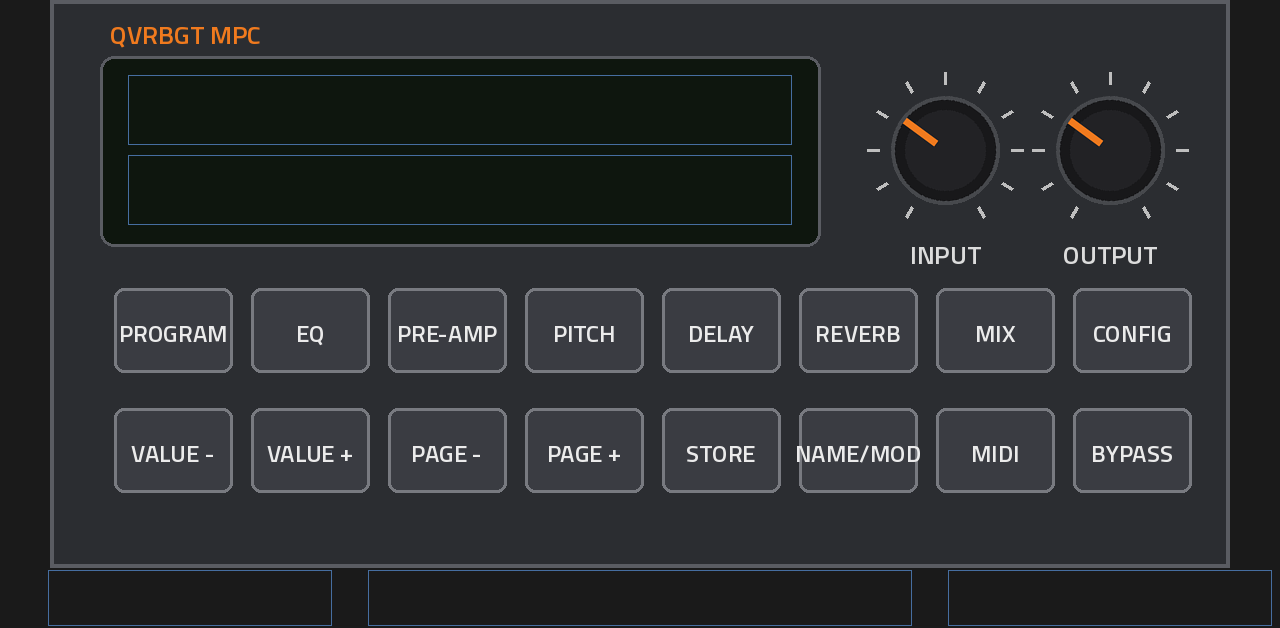
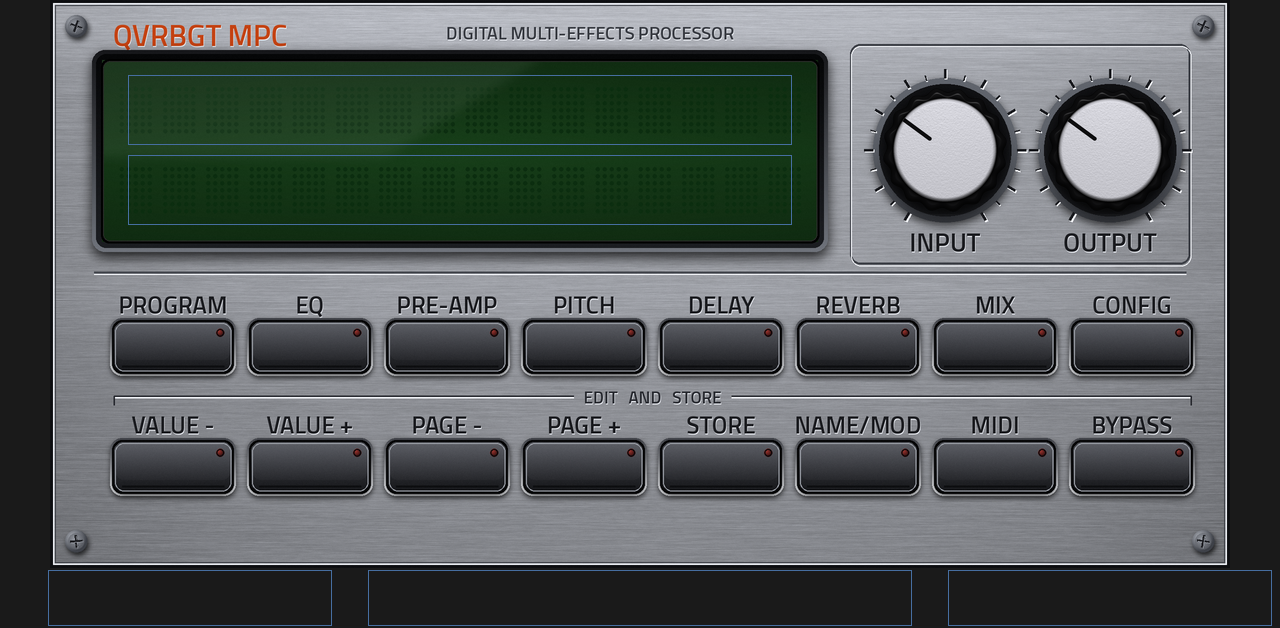
QVRBGT MPC: silver hardware-style panel, rendered top-lit knobs, live LCD text colour
New generic faceplate (brushed aluminium, recessed LCD with dot-matrix grid, black rubber keys, legends printed on the panel); no
manufacturer art or logo. Knob frames are rendered per angle with the light fixed (tools/knob_lit.py) instead of rotating panel pixels.
gen_emu passes tcolor/tfont/tweight through for readouts.

Claude-Session: https://claude.ai/code/session_01YReGWRTtnqPBKJMJPxkBnz

diff --git a/tools/make_qvgt_panel.py b/tools/make_qvgt_panel.py
@@ -1,35 +1,201 @@
 #!/usr/bin/env python3
-"""PLACEHOLDER panel for QVRBGT MPC (the user has not supplied a QuadraVerb GT panel image): plain boxes, labels and two knobs, 1180 x 568.
-Replace art/panels/qvgt.png with the real panel and re-point the x/y in QVRBGTMPC/spec.py; nothing else depends on this drawing."""
+"""Hardware-style front panel for QVRBGT MPC (1180 x 568), drawn from scratch at 2x and scaled down: anodised brushed aluminium,
+Phillips screws with shadows, bevelled recessed LCD window with a 2 x 16 dot-matrix grid under green backlight, knob wells with
+scale ticks, bevelled rubber keys with unlit LEDs, silk-screen legends. NO manufacturer logo or name. The user has not supplied a
+real QuadraVerb GT panel; replace art/panels/qvgt.png with theirs and re-point the x/y in QVRBGTMPC/spec.py.
+Control geometry is unchanged: knobs (895,150) and (1060,150); keys left x=64+137*i, y=330/450 (118 x 84 pads in 130 x 88 boxes);
+LCD inner window (52,60)-(768,242)."""
 import math, os
-from PIL import Image, ImageDraw, ImageFont
+import numpy as np
+from PIL import Image, ImageDraw, ImageFont, ImageFilter
+from scipy.ndimage import uniform_filter1d
+
 root = os.path.dirname(os.path.dirname(os.path.abspath(__file__)))
-W, H = 1180, 568
-im = Image.new("RGB", (W, H), (43, 45, 49)); d = ImageDraw.Draw(im)
-F = lambda s: ImageFont.truetype(os.path.join(root, "art/fonts/TitilliumWeb-SemiBold.ttf"), s)
-d.rectangle((0, 0, W - 1, H - 1), outline=(90, 92, 98), width=4)
-d.text((60, 14), "QVRBGT MPC", font=F(26), fill=(240, 122, 30))
-# LCD bezel (the two text lines are live readouts on top of it)
-d.rounded_rectangle((50, 56, 770, 246), 14, fill=(14, 22, 14), outline=(90, 92, 98), width=3)
-# INPUT / OUTPUT knobs: dark disc, ring of ticks, orange pointer straight up
-def knob(cx, cy, label):
-    for a in range(-150, 151, 30):
-        x0 = cx + math.sin(math.radians(a)) * 66; y0 = cy - math.cos(math.radians(a)) * 66
-        x1 = cx + math.sin(math.radians(a)) * 78; y1 = cy - math.cos(math.radians(a)) * 78
-        d.line((x0, y0, x1, y1), fill=(190, 190, 190), width=3)
-    d.ellipse((cx - 54, cy - 54, cx + 54, cy + 54), fill=(24, 24, 26), outline=(70, 72, 76), width=4)
-    d.ellipse((cx - 40, cy - 40, cx + 40, cy + 40), fill=(34, 34, 37))
-    d.line((cx, cy - 12, cx, cy - 50), fill=(240, 122, 30), width=7)
-    t = F(26); w = d.textlength(label, font=t); d.text((cx - w / 2, cy + 84), label, font=t, fill=(220, 220, 220))
-knob(895, 150, "INPUT"); knob(1060, 150, "OUTPUT")
-# the 16 keys, two rows of eight (the key boxes are the touch targets; labels are drawn here)
+W, H, S = 1180, 568, 2
+W2, H2 = W * S, H * S
+rng = np.random.default_rng(11)
+FONT = lambda s, w="SemiBold": ImageFont.truetype(os.path.join(root, "art/fonts/TitilliumWeb-SemiBold.ttf"), int(s * S))
+q = lambda v: int(round(v * S))
+Q = lambda box: tuple(q(v) for v in box)
+
+# ---- brushed anodised aluminium (long horizontal grain, soft top light, vignette) ----
+g = rng.normal(0, 1, (H2, W2)).astype(np.float32)
+g = uniform_filter1d(g, 90, axis=1); g /= g.std()
+g2 = uniform_filter1d(rng.normal(0, 1, (H2, W2)).astype(np.float32), 14, axis=1); g2 /= g2.std()
+fine = rng.normal(0, 1, (H2, W2)).astype(np.float32)
+yy = np.linspace(0, 1, H2, dtype=np.float32)[:, None]
+xx = np.linspace(0, 1, W2, dtype=np.float32)[None, :]
+base = 176 - 40 * yy + 14 * np.exp(-((yy - 0.04) / 0.06) ** 2) + 8 * np.exp(-((yy - 0.52) / 0.05) ** 2)             # lighter at the top edge
+base = base - 22 * (np.abs(xx - 0.5) * 2) ** 3                            # vignette at the sides
+lum = base + 5.0 * g + 2.4 * g2 + 1.2 * fine
+rgb = np.stack([lum * 0.975, lum * 0.99, lum * 1.03], -1)
+im = Image.fromarray(np.clip(rgb, 0, 255).astype(np.uint8), "RGB").convert("RGBA")
+
+
+def shadow(draw_fn, off=(0, 4), blur=5, alpha=150, grow=0):
+    """Composite a blurred drop shadow of whatever draw_fn paints (white) onto the panel."""
+    m = Image.new("L", im.size, 0)
+    draw_fn(ImageDraw.Draw(m), 255)
+    if grow:
+        m = m.filter(ImageFilter.MaxFilter(grow * 2 + 1))
+    m = m.filter(ImageFilter.GaussianBlur(q(blur)))
+    sh = Image.new("RGBA", im.size, (0, 0, 0, 0))
+    sh.putalpha(m.point(lambda v: int(v * alpha / 255)))
+    layer = Image.new("RGBA", im.size, (0, 0, 0, 0))
+    layer.alpha_composite(sh, (q(off[0]), q(off[1])))
+    im.alpha_composite(layer)
+
+
+def vgrad(box, r, top, bot, extra=None):
+    """Rounded rectangle filled with a vertical gradient."""
+    x0, y0, x1, y1 = Q(box)
+    w, h = x1 - x0, y1 - y0
+    t = np.linspace(0, 1, h, dtype=np.float32)[:, None, None]
+    arr = np.array(top, np.float32) * (1 - t) + np.array(bot, np.float32) * t
+    arr = np.repeat(arr, w, axis=1)
+    if extra is not None:
+        arr = arr + extra(w, h)
+    tile = Image.fromarray(np.clip(arr, 0, 255).astype(np.uint8), "RGB").convert("RGBA")
+    m = Image.new("L", (w, h), 0)
+    ImageDraw.Draw(m).rounded_rectangle((0, 0, w - 1, h - 1), q(r), fill=255)
+    tile.putalpha(m)
+    im.alpha_composite(tile, (x0, y0))
+
+
+def radial_disc(cx, cy, rad, c_in, c_out, hl=(-0.3, -0.35)):
+    """Disc with an off-centre radial gradient (screws, lamps)."""
+    n = q(rad) * 2 + 2
+    ys, xs = np.mgrid[0:n, 0:n].astype(np.float32)
+    c = n / 2
+    d = np.hypot(xs - c - hl[0] * q(rad), ys - c - hl[1] * q(rad)) / q(rad)
+    t = np.clip(d / 1.25, 0, 1)[..., None]
+    arr = np.array(c_in, np.float32) * (1 - t) + np.array(c_out, np.float32) * t
+    tile = Image.fromarray(np.clip(arr, 0, 255).astype(np.uint8), "RGB").convert("RGBA")
+    m = Image.new("L", (n, n), 0)
+    ImageDraw.Draw(m).ellipse((c - q(rad), c - q(rad), c + q(rad), c + q(rad)), fill=255)
+    tile.putalpha(m)
+    im.alpha_composite(tile, (q(cx) - n // 2, q(cy) - n // 2))
+
+
+def D():
+    return ImageDraw.Draw(im)
+
+
+def centered(text, cx, y, font, fill):
+    d = D(); w = d.textlength(text, font=font); d.text((q(cx) - w / 2, q(y)), text, font=font, fill=fill)
+
+
+def engrave(text, cx, y, font, fill=(26, 27, 31)):
+    """Silk-screen text with a faint dark under-print, so it reads as printed on the metal."""
+    d = D(); w = d.textlength(text, font=font)
+    d.text((q(cx) - w / 2 + 1, q(y) + 2), text, font=font, fill=(236, 239, 245))
+    d.text((q(cx) - w / 2, q(y)), text, font=font, fill=fill)
+
+
+# ---- frame: bevelled edge, inner rule ----
+d = D()
+d.rectangle((0, 0, W2 - 1, H2 - 1), outline=(14, 15, 18), width=q(3))
+d.rectangle((q(3), q(3), W2 - q(3) - 1, H2 - q(3) - 1), outline=(236, 239, 245), width=q(1.5))
+d.rectangle((q(5), q(5), W2 - q(5) - 1, H2 - q(5) - 1), outline=(70, 73, 80), width=q(1))
+
+# ---- screws (Phillips, random drive angle, drop shadow) ----
+for sx, sy in ((26, 26), (W - 27, 26), (26, H - 27), (W - 27, H - 27)):
+    shadow(lambda dd, c, sx=sx, sy=sy: dd.ellipse(Q((sx - 11, sy - 11, sx + 11, sy + 11)), fill=c), off=(1.5, 3), blur=2.5, alpha=190)
+    radial_disc(sx, sy, 11, (178, 182, 190), (62, 65, 72))
+    radial_disc(sx, sy, 8, (150, 154, 162), (88, 91, 98), hl=(-0.2, -0.25))
+    a = math.radians(rng.uniform(0, 90)); d = D()
+    for k in (0, 90):
+        ax = math.cos(a + math.radians(k)); ay = math.sin(a + math.radians(k))
+        d.line((q(sx - 6 * ax), q(sy - 6 * ay), q(sx + 6 * ax), q(sy + 6 * ay)), fill=(30, 31, 35), width=q(2.6))
+        d.line((q(sx - 6 * ax + 0.8), q(sy - 6 * ay + 1), q(sx + 6 * ax + 0.8), q(sy + 6 * ay + 1)), fill=(170, 174, 182), width=q(0.7))
+
+# ---- title strip (plugin's own name; no maker) ----
+engrave("QVRBGT MPC", 150, 12, FONT(30, "Bold"), (196, 66, 18))
+engrave("DIGITAL MULTI-EFFECTS PROCESSOR", 540, 19, FONT(18), (56, 59, 66))
+
+# ---- LCD: bezel, black glass, 2 x 16 dot-matrix grid under green backlight ----
+bez = (42, 50, 778, 252)
+shadow(lambda dd, c: dd.rounded_rectangle(Q(bez), q(13), fill=c), off=(0, 5), blur=6, alpha=200)
+vgrad(bez, 13, (22, 23, 26), (112, 116, 124))                    # recess: dark on top, light lip at the bottom
+vgrad((46, 54, 774, 248), 10, (6, 7, 8), (28, 30, 34))
+LX0, LY0, LX1, LY1 = 52, 60, 768, 242
+lw, lh = q(LX1 - LX0), q(LY1 - LY0)
+ly, lx = np.mgrid[0:lh, 0:lw].astype(np.float32)
+glow = 0.62 + 0.38 * (1 - np.abs(ly / lh - 0.5) * 1.5) * (1 - 0.35 * np.abs(lx / lw - 0.5) * 2)
+lcd = np.zeros((lh, lw, 3), np.float32)
+lcd[..., 0] = 24 * glow; lcd[..., 1] = 64 * glow; lcd[..., 2] = 26 * glow
+lcd_img = Image.fromarray(np.clip(lcd, 0, 255).astype(np.uint8), "RGB")
+ld = ImageDraw.Draw(lcd_img)
+pitch = 7.0
+cols = 16; cell_w = (LX1 - LX0 - 24) / cols                       # 16 characters of 5 x 7 dots
+for row_cy in (110 - LY0, 190 - LY0):                             # the two text lines sit on these centres
+    for c in range(cols):
+        for i in range(5):
+            for j in range(7):
+                px = 12 + c * cell_w + (cell_w - 5 * pitch) / 2 + i * pitch + pitch / 2
+                py = row_cy - 3 * pitch + j * pitch
+                ld.ellipse((q(px - 2.1), q(py - 2.1), q(px + 2.1), q(py + 2.1)), fill=(12, 46, 16))
+im.paste(lcd_img, (q(LX0), q(LY0)))
+sheen = Image.new("RGBA", (lw, lh), (0, 0, 0, 0)); sp = ImageDraw.Draw(sheen)
+sp.polygon([(0, 0), (int(lw * 0.62), 0), (int(lw * 0.40), lh * 0.55), (0, lh * 0.55)], fill=(255, 255, 255, 14))
+sheen = sheen.filter(ImageFilter.GaussianBlur(q(6)))
+im.alpha_composite(sheen, (q(LX0), q(LY0)))
+d = D(); d.rounded_rectangle(Q((LX0 - 1, LY0 - 1, LX1 + 1, LY1 + 1)), q(8), outline=(0, 0, 0), width=q(3))
+d.rounded_rectangle(Q((LX0 + 1, LY0 + 1, LX1 - 1, LY1 - 1)), q(7), outline=(40, 44, 40), width=q(1))
+
+# ---- input / output block: engraved box, knob wells, scale ticks ----
+io = (800, 44, 1140, 264)
+d = D(); d.rounded_rectangle(Q(io), q(10), outline=(60, 63, 70), width=q(2))
+d.rounded_rectangle(Q((io[0] + 1, io[1] + 2, io[2] + 1, io[3] + 2)), q(10), outline=(244, 246, 250), width=q(1))
+for cx, cy, label in ((895, 150, "INPUT"), (1060, 150, "OUTPUT")):
+    shadow(lambda dd, c, cx=cx, cy=cy: dd.ellipse(Q((cx - 72, cy - 72, cx + 72, cy + 72)), fill=c), off=(0, 3), blur=4, alpha=170)
+    radial_disc(cx, cy, 72, (20, 21, 24), (96, 100, 108), hl=(0, 0.55))     # chamfered well: shaded top, lit lip below
+    radial_disc(cx, cy, 66, (6, 6, 7), (22, 23, 26), hl=(0, -0.2))
+    d = D()
+    for k, a in enumerate(range(-150, 151, 15)):
+        major = k % 2 == 0
+        r0, r1 = (72, 81) if major else (72, 77)
+        sx, sy = math.sin(math.radians(a)), -math.cos(math.radians(a))
+        d.line((q(cx + sx * r0 + 0.8), q(cy + sy * r0 + 1.2), q(cx + sx * r1 + 0.8), q(cy + sy * r1 + 1.2)), fill=(246, 248, 252), width=q(2.8 if major else 1.8))
+        d.line((q(cx + sx * r0), q(cy + sy * r0), q(cx + sx * r1), q(cy + sy * r1)), fill=(24, 25, 29), width=q(2.4 if major else 1.4))
+    engrave(label, cx, 222, FONT(26, "Bold"))
+
+# ---- engraved rule between display/levels and the keys ----
+d = D(); d.line((q(44), q(272), q(W - 44), q(272)), fill=(70, 73, 80), width=q(2))
+d.line((q(44), q(274), q(W - 44), q(274)), fill=(246, 248, 252), width=q(1))
+t = FONT(17); tl = d.textlength("EDIT   AND   STORE", font=t); x0, x1, y = 64, 64 + 7 * 137 + 118, 396
+for xa, xb in ((x0, (x0 + x1) / 2 - tl / S / 2 - 10), ((x0 + x1) / 2 + tl / S / 2 + 10, x1)):
+    d.line((q(xa), q(y + 1), q(xb), q(y + 1)), fill=(244, 246, 250), width=q(2)); d.line((q(xa), q(y), q(xb), q(y)), fill=(40, 42, 48), width=q(1.4))
+for xe in (x0, x1):
+    d.line((q(xe), q(y), q(xe), q(y + 9)), fill=(40, 42, 48), width=q(1.4))
+engrave("EDIT   AND   STORE", (x0 + x1) / 2, y - 12, t, (40, 42, 48))
+
+# ---- 16 keys: bevelled rubber pads, shadowed wells, unlit LED, printed legends ----
 ROW1 = ["PROGRAM", "EQ", "PRE-AMP", "PITCH", "DELAY", "REVERB", "MIX", "CONFIG"]
 ROW2 = ["VALUE -", "VALUE +", "PAGE -", "PAGE +", "STORE", "NAME/MOD", "MIDI", "BYPASS"]
-for r, (row, y) in enumerate(((ROW1, 330), (ROW2, 450))):
+grain = lambda w, h: rng.normal(0, 1.4, (h, w, 1)).astype(np.float32)
+for row, y in ((ROW1, 330), (ROW2, 450)):
     for i, name in enumerate(row):
         x = 64 + i * 137
-        d.rounded_rectangle((x, y - 42, x + 118, y + 42), 10, fill=(58, 60, 66), outline=(120, 122, 128), width=3)
-        t = F(24); w = d.textlength(name, font=t); d.text((x + 59 - w / 2, y - 16), name, font=t, fill=(235, 235, 235))
+        tf = FONT(22 if len(name) > 8 else 24)
+        engrave(name, x + 59, y - 44, tf)                                            # legend printed on the faceplate
+        pad = (x, y - 8, x + 118, y + 42)
+        well = (x - 4, y - 12, x + 122, y + 46)
+        shadow(lambda dd, c, well=well: dd.rounded_rectangle(Q(well), q(12), fill=c), off=(0, 2), blur=2.5, alpha=120)
+        vgrad(well, 12, (64, 66, 72), (246, 248, 252))                               # machined opening: dark top wall, bright lower lip
+        vgrad((x - 2, y - 10, x + 120, y + 44), 10, (6, 6, 7), (16, 17, 19))
+        shadow(lambda dd, c, pad=pad: dd.rounded_rectangle(Q(pad), q(9), fill=c), off=(0, 3), blur=3, alpha=210)
+        vgrad(pad, 9, (74, 76, 82), (22, 23, 26), extra=grain)
+        vgrad((x + 1.5, y - 6.5, x + 116.5, y + 30), 8, (92, 94, 101), (40, 41, 45), extra=grain)
+        d = D()
+        d.rounded_rectangle(Q((x + 1, y - 7, x + 117, y + 41)), q(9), outline=(158, 162, 170), width=q(1.2))
+        d.line((q(x + 8), q(y + 36), q(x + 110), q(y + 36)), fill=(14, 15, 17), width=q(2))
+        radial_disc(x + 106, y + 2.5, 3.8, (150, 52, 46), (52, 15, 15), hl=(-0.3, -0.35))   # unlit LED
+        d = D(); d.ellipse(Q((x + 102.6, y - 1, x + 109.4, y + 6)), outline=(10, 10, 12), width=q(1))
+
+# fine film grain over everything so it does not look like flat vector art
+arr = np.asarray(im.convert("RGB"), np.float32) + rng.normal(0, 1.1, (H2, W2, 1))
+out = Image.fromarray(np.clip(arr, 0, 255).astype(np.uint8), "RGB").resize((W, H), Image.LANCZOS)
 os.makedirs(os.path.join(root, "art/panels"), exist_ok=True)
-im.save(os.path.join(root, "art/panels/qvgt.png"))
-print("art/panels/qvgt.png", im.size)
+out.save(os.path.join(root, "art/panels/qvgt.png"))
+print("art/panels/qvgt.png", out.size)

diff --git a/tools/knob_lit.py b/tools/knob_lit.py
@@ -1,0 +1,65 @@
+"""Realistic top-lit knob frames (the approved L'Cronx knob look): black 16-lobe scalloped skirt + domed coloured cap with a painted
+pointer. The light is fixed in panel space (from straight above), so only the knob's own parts turn and every frame is lit the same.
+frame(albedo_0to1, angle_deg, px) -> RGBA uint8 (px x px), transparent background, soft non-rotating drop shadow."""
+import math
+import numpy as np
+from PIL import Image
+from scipy import ndimage as ndi
+
+S = 2; W = 400; N = W * S; C = N / 2.0; LOBES = 16
+RS, AMP = 164.7 * S, 6.0 * S; RC = 141.5 * S
+yy, xx = np.mgrid[0:N, 0:N].astype(float); X = xx - C + .5; Y = yy - C + .5
+TEX = ndi.gaussian_filter(np.random.default_rng(7).standard_normal((N, N)), 1.8 * S / 3 * 1.5); TEX /= TEX.std()
+sm_ = lambda t: (lambda u: u * u * (3 - 2 * u))(np.clip(t, 0, 1))
+
+
+def frame(albedo, angle_deg, px):
+    albedo = np.array(albedo, float)
+    a = math.radians(angle_deg); ca, sa = math.cos(a), math.sin(a)
+    kx = X * ca + Y * sa; ky = -X * sa + Y * ca
+    r = np.hypot(X, Y); th = np.arctan2(kx, -ky)
+    rim = RS + AMP * np.cos(LOBES * th)
+    d_sk = rim - r; t = np.clip(d_sk / (16 * S), 0, 1)
+    h_sk = np.where(d_sk > 0, 26 * S * np.sqrt(1 - (1 - t) ** 2), 0)
+    d_cp = RC - r; t2 = np.clip(d_cp / (11 * S), 0, 1)
+    edge = np.sqrt(1 - (1 - t2) ** 2)
+    dome = 7 * S * (1 - np.clip(r / RC, 0, 1) ** 2)
+    h_cp = np.where(d_cp > 0, 22 * S * edge + dome, 0)
+    rings = .35 * S * np.sin(2 * math.pi * r / (2.6 * S))
+    grain = ndi.map_coordinates(TEX, [ky + C, kx + C], order=1, mode='reflect')
+    h_cp += np.where(d_cp > 2 * S, rings * .5 + grain * .10 * S, 0)
+    h = ndi.gaussian_filter(h_sk + h_cp, .7 * S)
+    gy_, gx_ = np.gradient(h)
+    nx, ny = -gx_, -gy_; nl = np.sqrt(nx * nx + ny * ny + 1); nx, ny, nz = nx / nl, ny / nl, 1 / nl
+    L = np.array([0, -.5, .866]); L /= np.linalg.norm(L)
+    Hh = L + np.array([0, 0, 1.]); Hh /= np.linalg.norm(Hh)
+    ndl = np.clip(nx * L[0] + ny * L[1] + nz * L[2], 0, 1)
+    ndh = np.clip(nx * Hh[0] + ny * Hh[1] + nz * Hh[2], 0, 1)
+    amb = .33 + .10 * nz
+    blur = ndi.gaussian_filter(h, 10 * S)
+    ao = np.clip(1 - .020 * np.clip(blur - h, 0, None) / S * 3, .55, 1)
+    ao *= 1 - .45 * np.exp(-(np.abs(d_cp + 1.5 * S) / (5 * S)) ** 2) * (d_cp < 3 * S)
+    on_cap = d_cp > 0
+    alb = np.where(on_cap[..., None], albedo[None, None, :], np.array([.05, .05, .055])[None, None, :])
+    kd = np.where(on_cap, .52, .55); ks = np.where(on_cap, .10, .30); sh = np.where(on_cap, 38., 70.)
+    spec = ks * ndh ** sh
+    y0, y1 = -RC, -52 * S
+    dy = np.clip(ky, y0, y1) - ky; dist = np.hypot(kx, dy)
+    ink = sm_((6. * S - dist) / (1.2 * S)) * on_cap
+    ink *= sm_((RC - 1.5 * S - r) / (1. * S) + 1)
+    alb = alb * (1 - ink[..., None]) + np.array([.045, .045, .05])[None, None, :] * ink[..., None]
+    spec = spec * (1 - .6 * ink)
+    lit = np.clip(alb * (amb + kd * ndl)[..., None] * ao[..., None] + spec[..., None] * .9 * ao[..., None], 0, 1)
+    cov = sm_(d_sk / (1.2 * S) + .5)
+    shd = ndi.gaussian_filter((np.hypot(X, Y - 9 * S) < RS + S).astype(float), 9 * S) * .6
+    alpha = cov + (1 - cov) * shd
+    col = lit * cov[..., None] / np.maximum(alpha, 1e-4)[..., None]
+    rim_l = np.clip((-Y / RS) - .55, 0, 1) ** 2 * sm_((rim - r) / (5 * S)) * (1 - sm_((rim - r) / (14 * S)))
+    col = np.clip(col + (rim_l * .10)[..., None] * (cov / np.maximum(alpha, 1e-4))[..., None], 0, 1)
+    out = np.dstack([col, alpha])
+    img = Image.fromarray((out * 255 + .5).astype(np.uint8), "RGBA")
+    # knob skirt diameter (2 * 170.7 of the 400 px render) -> fills ~px; crop the render to that square around the centre
+    full = px * 400 / (2 * 170.7 + 10)
+    img = img.resize((round(full), round(full)), Image.LANCZOS)
+    o = (img.size[0] - px) // 2
+    return np.array(img.crop((o, o, o + px, o + px)))

diff --git a/QVRBGTMPC/spec.py b/QVRBGTMPC/spec.py
@@ -5,14 +5,14 @@ ART = dict(file="art/panels/qvgt.png", scale=1.0, x=50, y=0)
 KEYS = [("k_program", "PROGRAM"), ("k_eq", "EQ"), ("k_preamp", "PRE-AMP"), ("k_pitch", "PITCH"), ("k_delay", "DELAY"), ("k_reverb", "REVERB"), ("k_mix", "MIX"), ("k_config", "CONFIG"),
         ("k_valdn", "VALUE -"), ("k_valup", "VALUE +"), ("k_pgdn", "PAGE -"), ("k_pgup", "PAGE +"), ("k_store", "STORE"), ("k_namemod", "NAME/MOD"), ("k_midi", "MIDI"), ("k_bypass", "BYPASS")]
 C = [
- dict(key="input", name="INPUT", kind="knob", x=895, y=150, ir=54, r=59, min=0, max=10, default=10, bw=130, base=0),
- dict(key="output", name="OUTPUT", kind="knob", x=1060, y=150, ir=54, r=59, min=0, max=10, default=10, bw=130, base=0),
+ dict(key="input", name="INPUT", kind="knob", x=895, y=150, ir=54, r=59, min=0, max=10, default=10, bw=130, base=0, lit=(225, 225, 233)),
+ dict(key="output", name="OUTPUT", kind="knob", x=1060, y=150, ir=54, r=59, min=0, max=10, default=10, bw=130, base=0, lit=(225, 225, 233)),
 ]
 for i, (k, n) in enumerate(KEYS):
     C.append(dict(key=k, name=n, kind="button", x=123 + 137 * (i % 8), y=330 if i < 8 else 450, bw=130, bh=88))
 C += [
- dict(key="lcd1", name="LCD LINE 1", kind="readout", cx=460, cy=196, w=680, h=70, tsize=56, talign="center", tcolor="b6f0a0", ql=False),
- dict(key="lcd2", name="LCD LINE 2", kind="readout", cx=460, cy=276, w=680, h=70, tsize=56, talign="center", tcolor="b6f0a0", ql=False),
+ dict(key="lcd1", name="LCD LINE 1", kind="readout", cx=460, cy=196, w=680, h=70, tsize=56, talign="center", tcolor="b6f0a0", tfont="Roboto", tweight="Bold", ql=False),
+ dict(key="lcd2", name="LCD LINE 2", kind="readout", cx=460, cy=276, w=680, h=70, tsize=56, talign="center", tcolor="b6f0a0", tfont="Roboto", tweight="Bold", ql=False),
  dict(key="brand", name="BRAND", kind="readout", cx=190, cy=684, w=300, h=56, tsize=34, talign="center", ql=False),
  dict(key="info", name="INFO", kind="readout", cx=640, cy=684, w=560, h=56, tsize=34, talign="center", ql=False),
  dict(key="status", name="STATUS", kind="readout", cx=1110, cy=684, w=340, h=56, tsize=26, talign="center", ql=False),

diff --git a/tools/post_art.py b/tools/post_art.py
@@ -12,6 +12,7 @@
 The art itself is never redrawn: every knob frame and the background are the supplied pixels.
 """
 import json, os, re, runpy, sys
+sys.path.insert(0, os.path.dirname(os.path.abspath(__file__)))
 import numpy as np, cv2
 from PIL import Image
 
@@ -116,6 +117,9 @@ for c in S["controls"]:
     for f in range(N):
         v = f / (N - 1)
         ang = lerp_table(c["angles"], v) if "angles" in c else c.get("a0", -145.0) + (c.get("a1", 145.0) - c.get("a0", -145.0)) * v
+        if c.get("lit"):                                   # rendered knob: light fixed from above, only the knob's parts turn
+            from knob_lit import frame as _lit
+            out[f * sw:(f + 1) * sw] = _lit([x / 255.0 for x in c["lit"]], ang, sw); continue
         M = cv2.getRotationMatrix2D((cx0, cy0), -(ang - base_ang), sc)          # CW delta, source -> skin scale
         M[0, 2] += sw / 2 - cx0; M[1, 2] += sw / 2 - cy0
         fr = cv2.warpAffine(art, M, (sw, sw), flags=cv2.INTER_CUBIC, borderMode=cv2.BORDER_REPLICATE)

diff --git a/tools/gen_emu.py b/tools/gen_emu.py
@@ -94,6 +94,9 @@ for c in C:
     if k == "toggle" and ONE: parts += ["ns=0"]
     if k == "button": parts += ["bw=%d" % c.get("bw", 130)] + (["bh=%d" % c["bh"]] if "bh" in c else [])
     if k == "readout" and c.get("tsize"): parts += ["tsize=%d" % c["tsize"], "talign=%s" % c.get("talign", "center")]
+    if k == "readout" and c.get("tsize"):
+        for _k in ("tcolor", "tfont", "tweight"):
+            if c.get(_k): parts.append("%s=%s" % (_k, c[_k]))
     if k in ("enum_h", "enum_v"): parts.append('options="%s"' % ",".join(o.upper() for o in c["options"]))
     if not ONE: parts.append("when=view:%d" % pg)
     L.append(" ".join(parts))
